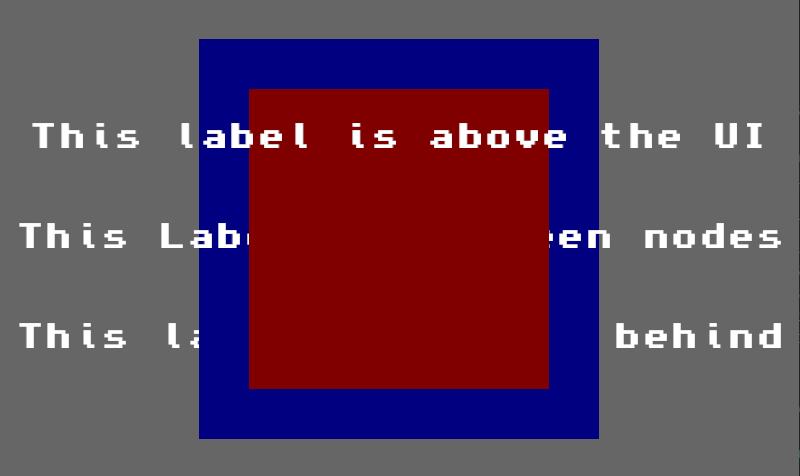
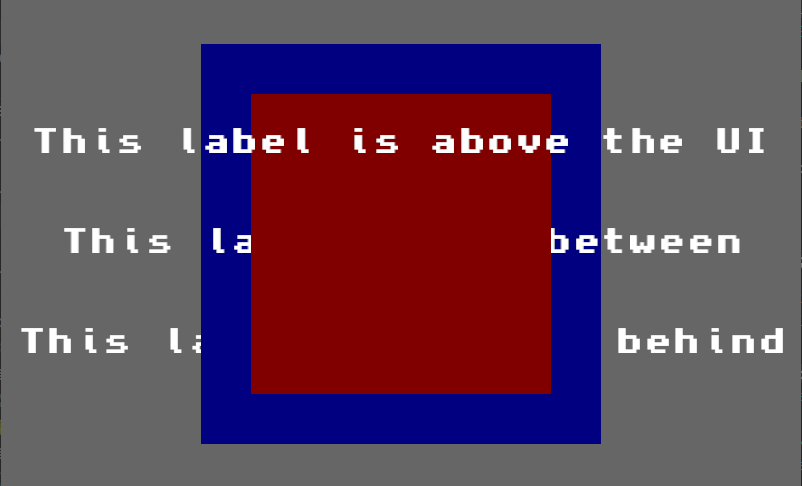
minor fixes to readme and depth example and example image

diff --git a/examples/depth.rs b/examples/depth.rs
@@ -32,7 +32,7 @@ fn setup(
     });
     let labels = [
         ("This label is above the UI", 400., 1.),
-        ("This Label is between nodes", 300., 0.001),
+        ("This label is in-between", 300., 0.001),
         ("This label is hidden behind", 200., 0.),
     ];
     for (message, y, z) in labels.into_iter() {

diff --git a/README.md b/README.md
@@ -12,10 +12,10 @@ Draw text anywhere at any depth and orientation with the Bevy UI.
 Add the dependency to `Cargo.toml`:
 
 ```toml
-bevy_mod_ui_label = "0.2.2"
+bevy_mod_ui_label = "0.2.4"
 ```
 
-Add the plugin to your app:
+Add the plugin to your Bevy app:
 
 ```rust
 use bevy_mod_ui_label::*;
